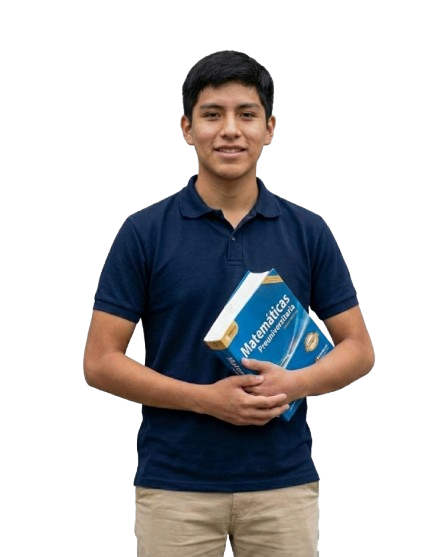
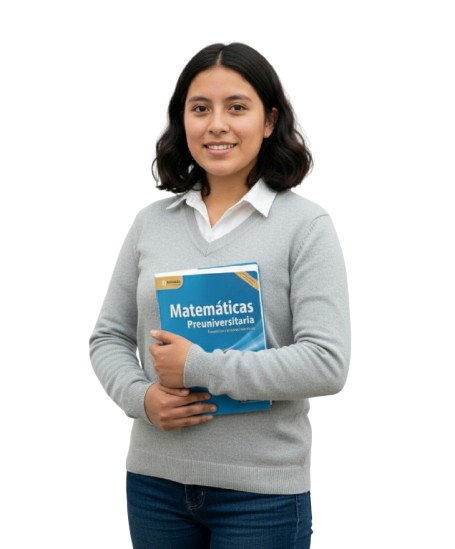
Agregar cambios de ajuste

diff --git a/index.html b/index.html
@@ -3,7 +3,7 @@
 <head>
   <meta charset="UTF-8" />
   <meta name="viewport" content="width=device-width, initial-scale=1.0"/>
-  <title>IziMath | Aprende matemáticas con sentido</title>
+  <title>IziMath | Aprende matemáticas fácil</title>
 
   <!-- Favicon -->
   <link rel="icon" type="image/x-icon" href="assets/favicon.ico">
